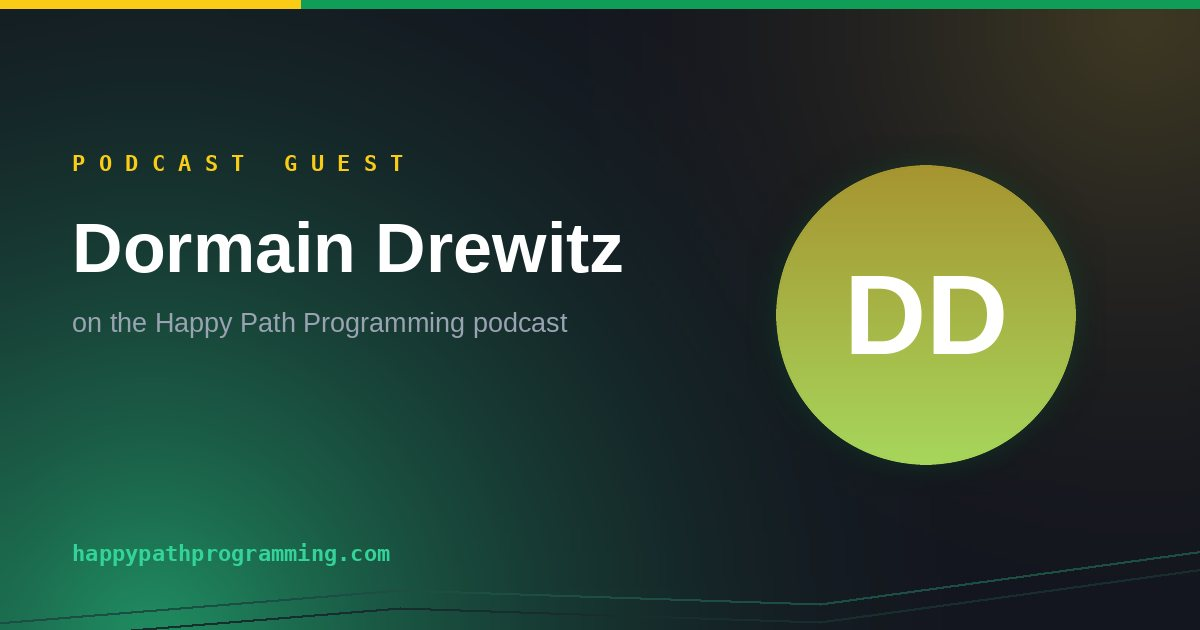
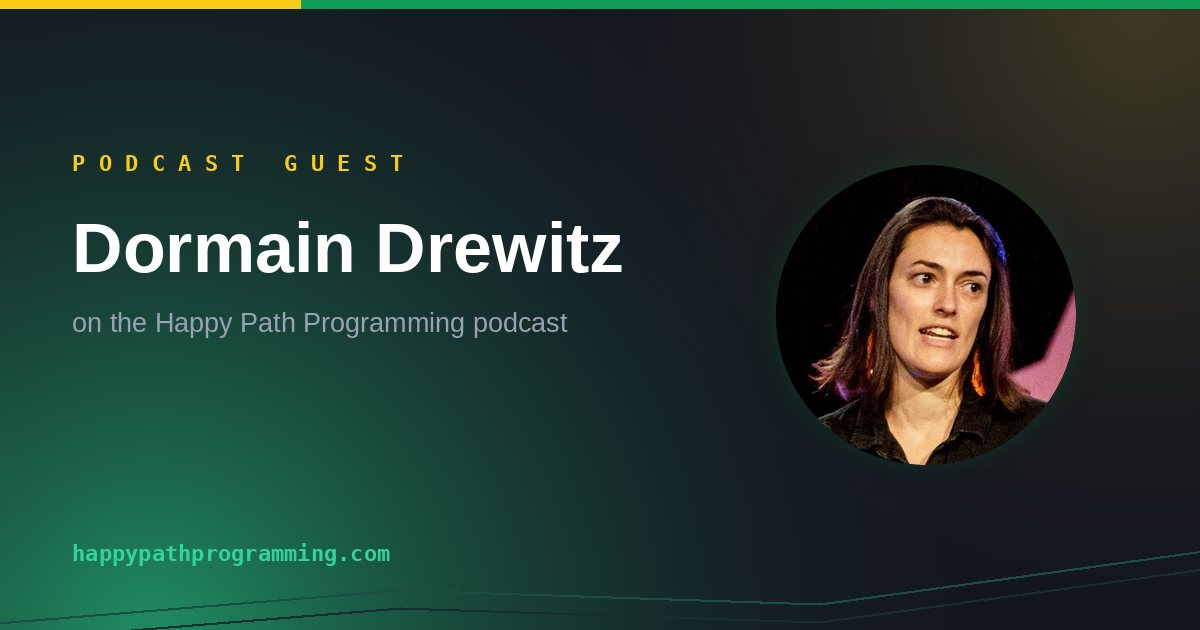
Guest photos for Barry Warsaw, Dormain Drewitz, John De Goes, Philip Hölzenspies and Renee Shah
Sources, each confirmed against the episode description:
- Barry Warsaw: LinkedIn, linked from his own site barry.warsaw.us (Python core developer)
- Dormain Drewitz: her Medium profile (talks on reliability and DevOps); matches her X avatar
- John De Goes: GitHub jdegoes (bio: Golem Cloud, ZIO)
- Philip Hölzenspies: GitHub holzensp (apple/pkl contributor)
- Renee Shah: Redpoint team page (bio: 5 years at Amplify Partners)

Redrew their guest share cards (Liberation fonts), which had the initials avatar.

Changed region(s): [[0.6475, 0.2413, 0.8942, 0.754]]

diff --git a/guests/philip-holzenspies.html b/guests/philip-holzenspies.html
@@ -34,7 +34,7 @@
 <link rel="stylesheet" href="../styles.css">
 <link rel="icon" href="../images/hpp.jpg">
 
-<script type="application/ld+json">{"@context":"https://schema.org","@graph":[{"@type":"ProfilePage","url":"https://happypathprogramming.com/guests/philip-holzenspies.html","name":"Philip Hölzenspies — Happy Path Programming","description":"Philip Hölzenspies has been a guest on Happy Path Programming once, joining Bruce and James to discuss “The Pkl Configuration Language with Philip Hölzenspies”.","mainEntity":{"@id":"https://happypathprogramming.com/guests/philip-holzenspies.html#person"}},{"@type":"Person","@id":"https://happypathprogramming.com/guests/philip-holzenspies.html#person","name":"Philip Hölzenspies","url":"https://happypathprogramming.com/guests/philip-holzenspies.html","performerIn":[{"@type":"PodcastEpisode","name":"The Pkl Configuration Language","url":"https://happypathprogramming.com/episodes/97-the-pkl-configuration-language-with-philip-holzenspies.html"}]},{"@type":"BreadcrumbList","itemListElement":[{"@type":"ListItem","position":1,"name":"Home","item":"https://happypathprogramming.com/"},{"@type":"ListItem","position":2,"name":"Guests","item":"https://happypathprogramming.com/guests/"},{"@type":"ListItem","position":3,"name":"Philip Hölzenspies","item":"https://happypathprogramming.com/guests/philip-holzenspies.html"}]}]}</script>
+<script type="application/ld+json">{"@context":"https://schema.org","@graph":[{"@type":"ProfilePage","url":"https://happypathprogramming.com/guests/philip-holzenspies.html","name":"Philip Hölzenspies — Happy Path Programming","description":"Philip Hölzenspies has been a guest on Happy Path Programming once, joining Bruce and James to discuss “The Pkl Configuration Language with Philip Hölzenspies”.","mainEntity":{"@id":"https://happypathprogramming.com/guests/philip-holzenspies.html#person"}},{"@type":"Person","@id":"https://happypathprogramming.com/guests/philip-holzenspies.html#person","name":"Philip Hölzenspies","url":"https://happypathprogramming.com/guests/philip-holzenspies.html","image":"https://happypathprogramming.com/images/guests/philip-holzenspies.jpg","performerIn":[{"@type":"PodcastEpisode","name":"The Pkl Configuration Language","url":"https://happypathprogramming.com/episodes/97-the-pkl-configuration-language-with-philip-holzenspies.html"}]},{"@type":"BreadcrumbList","itemListElement":[{"@type":"ListItem","position":1,"name":"Home","item":"https://happypathprogramming.com/"},{"@type":"ListItem","position":2,"name":"Guests","item":"https://happypathprogramming.com/guests/"},{"@type":"ListItem","position":3,"name":"Philip Hölzenspies","item":"https://happypathprogramming.com/guests/philip-holzenspies.html"}]}]}</script>
 </head>
 <body>
 <header class="site-header">
@@ -49,7 +49,7 @@
   <div class="wrap guest-hero-inner">
     <a class="back" href="../guests/index.html">← All guests</a>
     <div class="guest-hero-row">
-      <span class="avatar avatar--lg" style="background:linear-gradient(135deg,hsl(183 62% 44%),hsl(225 72% 56%))">PH</span>
+      <img class="avatar avatar--lg avatar-img" src="../images/guests/philip-holzenspies.jpg" alt="Philip Hölzenspies" loading="lazy" width="84" height="84">
       <div>
         <h1>Philip Hölzenspies</h1>
         <p class="guest-bio">Philip Hölzenspies has been a guest on Happy Path Programming once, joining Bruce and James to discuss “The Pkl Configuration Language with Philip Hölzenspies”.</p>

diff --git a/guests/john-de-goes.html b/guests/john-de-goes.html
@@ -34,7 +34,7 @@
 <link rel="stylesheet" href="../styles.css">
 <link rel="icon" href="../images/hpp.jpg">
 
-<script type="application/ld+json">{"@context":"https://schema.org","@graph":[{"@type":"ProfilePage","url":"https://happypathprogramming.com/guests/john-de-goes.html","name":"John De Goes — Happy Path Programming","description":"John De Goes has been a guest on Happy Path Programming once, joining Bruce and James to discuss “Scala, Rust, and Durable Computing with John De Goes”.","mainEntity":{"@id":"https://happypathprogramming.com/guests/john-de-goes.html#person"}},{"@type":"Person","@id":"https://happypathprogramming.com/guests/john-de-goes.html#person","name":"John De Goes","url":"https://happypathprogramming.com/guests/john-de-goes.html","performerIn":[{"@type":"PodcastEpisode","name":"Scala, Rust, and Durable Computing","url":"https://happypathprogramming.com/episodes/85-scala-rust-and-durable-computing-with-john-de-goes.html"}]},{"@type":"BreadcrumbList","itemListElement":[{"@type":"ListItem","position":1,"name":"Home","item":"https://happypathprogramming.com/"},{"@type":"ListItem","position":2,"name":"Guests","item":"https://happypathprogramming.com/guests/"},{"@type":"ListItem","position":3,"name":"John De Goes","item":"https://happypathprogramming.com/guests/john-de-goes.html"}]}]}</script>
+<script type="application/ld+json">{"@context":"https://schema.org","@graph":[{"@type":"ProfilePage","url":"https://happypathprogramming.com/guests/john-de-goes.html","name":"John De Goes — Happy Path Programming","description":"John De Goes has been a guest on Happy Path Programming once, joining Bruce and James to discuss “Scala, Rust, and Durable Computing with John De Goes”.","mainEntity":{"@id":"https://happypathprogramming.com/guests/john-de-goes.html#person"}},{"@type":"Person","@id":"https://happypathprogramming.com/guests/john-de-goes.html#person","name":"John De Goes","url":"https://happypathprogramming.com/guests/john-de-goes.html","image":"https://happypathprogramming.com/images/guests/john-de-goes.jpg","performerIn":[{"@type":"PodcastEpisode","name":"Scala, Rust, and Durable Computing","url":"https://happypathprogramming.com/episodes/85-scala-rust-and-durable-computing-with-john-de-goes.html"}]},{"@type":"BreadcrumbList","itemListElement":[{"@type":"ListItem","position":1,"name":"Home","item":"https://happypathprogramming.com/"},{"@type":"ListItem","position":2,"name":"Guests","item":"https://happypathprogramming.com/guests/"},{"@type":"ListItem","position":3,"name":"John De Goes","item":"https://happypathprogramming.com/guests/john-de-goes.html"}]}]}</script>
 </head>
 <body>
 <header class="site-header">
@@ -49,7 +49,7 @@
   <div class="wrap guest-hero-inner">
     <a class="back" href="../guests/index.html">← All guests</a>
     <div class="guest-hero-row">
-      <span class="avatar avatar--lg" style="background:linear-gradient(135deg,hsl(40 62% 44%),hsl(82 72% 56%))">JG</span>
+      <img class="avatar avatar--lg avatar-img" src="../images/guests/john-de-goes.jpg" alt="John De Goes" loading="lazy" width="84" height="84">
       <div>
         <h1>John De Goes</h1>
         <p class="guest-bio">John De Goes has been a guest on Happy Path Programming once, joining Bruce and James to discuss “Scala, Rust, and Durable Computing with John De Goes”.</p>

diff --git a/guests/dormain-drewitz.html b/guests/dormain-drewitz.html
@@ -34,7 +34,7 @@
 <link rel="stylesheet" href="../styles.css">
 <link rel="icon" href="../images/hpp.jpg">
 
-<script type="application/ld+json">{"@context":"https://schema.org","@graph":[{"@type":"ProfilePage","url":"https://happypathprogramming.com/guests/dormain-drewitz.html","name":"Dormain Drewitz — Happy Path Programming","description":"Dormain Drewitz has been a guest on Happy Path Programming once, joining Bruce and James to discuss “Inevitable Failure with Dormain Drewitz”.","mainEntity":{"@id":"https://happypathprogramming.com/guests/dormain-drewitz.html#person"}},{"@type":"Person","@id":"https://happypathprogramming.com/guests/dormain-drewitz.html#person","name":"Dormain Drewitz","url":"https://happypathprogramming.com/guests/dormain-drewitz.html","performerIn":[{"@type":"PodcastEpisode","name":"Inevitable Failure","url":"https://happypathprogramming.com/episodes/84-inevitable-failure-with-dormain-drewitz.html"}]},{"@type":"BreadcrumbList","itemListElement":[{"@type":"ListItem","position":1,"name":"Home","item":"https://happypathprogramming.com/"},{"@type":"ListItem","position":2,"name":"Guests","item":"https://happypathprogramming.com/guests/"},{"@type":"ListItem","position":3,"name":"Dormain Drewitz","item":"https://happypathprogramming.com/guests/dormain-drewitz.html"}]}]}</script>
+<script type="application/ld+json">{"@context":"https://schema.org","@graph":[{"@type":"ProfilePage","url":"https://happypathprogramming.com/guests/dormain-drewitz.html","name":"Dormain Drewitz — Happy Path Programming","description":"Dormain Drewitz has been a guest on Happy Path Programming once, joining Bruce and James to discuss “Inevitable Failure with Dormain Drewitz”.","mainEntity":{"@id":"https://happypathprogramming.com/guests/dormain-drewitz.html#person"}},{"@type":"Person","@id":"https://happypathprogramming.com/guests/dormain-drewitz.html#person","name":"Dormain Drewitz","url":"https://happypathprogramming.com/guests/dormain-drewitz.html","image":"https://happypathprogramming.com/images/guests/dormain-drewitz.jpg","performerIn":[{"@type":"PodcastEpisode","name":"Inevitable Failure","url":"https://happypathprogramming.com/episodes/84-inevitable-failure-with-dormain-drewitz.html"}]},{"@type":"BreadcrumbList","itemListElement":[{"@type":"ListItem","position":1,"name":"Home","item":"https://happypathprogramming.com/"},{"@type":"ListItem","position":2,"name":"Guests","item":"https://happypathprogramming.com/guests/"},{"@type":"ListItem","position":3,"name":"Dormain Drewitz","item":"https://happypathprogramming.com/guests/dormain-drewitz.html"}]}]}</script>
 </head>
 <body>
 <header class="site-header">
@@ -49,7 +49,7 @@
   <div class="wrap guest-hero-inner">
     <a class="back" href="../guests/index.html">← All guests</a>
     <div class="guest-hero-row">
-      <span class="avatar avatar--lg" style="background:linear-gradient(135deg,hsl(111 62% 44%),hsl(153 72% 56%))">DD</span>
+      <img class="avatar avatar--lg avatar-img" src="../images/guests/dormain-drewitz.jpg" alt="Dormain Drewitz" loading="lazy" width="84" height="84">
       <div>
         <h1>Dormain Drewitz</h1>
         <p class="guest-bio">Dormain Drewitz has been a guest on Happy Path Programming once, joining Bruce and James to discuss “Inevitable Failure with Dormain Drewitz”.</p>

diff --git a/guests/renee-shah.html b/guests/renee-shah.html
@@ -34,7 +34,7 @@
 <link rel="stylesheet" href="../styles.css">
 <link rel="icon" href="../images/hpp.jpg">
 
-<script type="application/ld+json">{"@context":"https://schema.org","@graph":[{"@type":"ProfilePage","url":"https://happypathprogramming.com/guests/renee-shah.html","name":"Renee Shah — Happy Path Programming","description":"Renee Shah has been a guest on Happy Path Programming once, joining Bruce and James to discuss “Investing in Developer Tools with Renee Shah”.","mainEntity":{"@id":"https://happypathprogramming.com/guests/renee-shah.html#person"}},{"@type":"Person","@id":"https://happypathprogramming.com/guests/renee-shah.html#person","name":"Renee Shah","url":"https://happypathprogramming.com/guests/renee-shah.html","performerIn":[{"@type":"PodcastEpisode","name":"Investing in Developer Tools","url":"https://happypathprogramming.com/episodes/80-investing-in-developer-tools-with-renee-shah.html"}]},{"@type":"BreadcrumbList","itemListElement":[{"@type":"ListItem","position":1,"name":"Home","item":"https://happypathprogramming.com/"},{"@type":"ListItem","position":2,"name":"Guests","item":"https://happypathprogramming.com/guests/"},{"@type":"ListItem","position":3,"name":"Renee Shah","item":"https://happypathprogramming.com/guests/renee-shah.html"}]}]}</script>
+<script type="application/ld+json">{"@context":"https://schema.org","@graph":[{"@type":"ProfilePage","url":"https://happypathprogramming.com/guests/renee-shah.html","name":"Renee Shah — Happy Path Programming","description":"Renee Shah has been a guest on Happy Path Programming once, joining Bruce and James to discuss “Investing in Developer Tools with Renee Shah”.","mainEntity":{"@id":"https://happypathprogramming.com/guests/renee-shah.html#person"}},{"@type":"Person","@id":"https://happypathprogramming.com/guests/renee-shah.html#person","name":"Renee Shah","url":"https://happypathprogramming.com/guests/renee-shah.html","image":"https://happypathprogramming.com/images/guests/renee-shah.jpg","performerIn":[{"@type":"PodcastEpisode","name":"Investing in Developer Tools","url":"https://happypathprogramming.com/episodes/80-investing-in-developer-tools-with-renee-shah.html"}]},{"@type":"BreadcrumbList","itemListElement":[{"@type":"ListItem","position":1,"name":"Home","item":"https://happypathprogramming.com/"},{"@type":"ListItem","position":2,"name":"Guests","item":"https://happypathprogramming.com/guests/"},{"@type":"ListItem","position":3,"name":"Renee Shah","item":"https://happypathprogramming.com/guests/renee-shah.html"}]}]}</script>
 </head>
 <body>
 <header class="site-header">
@@ -49,7 +49,7 @@
   <div class="wrap guest-hero-inner">
     <a class="back" href="../guests/index.html">← All guests</a>
     <div class="guest-hero-row">
-      <span class="avatar avatar--lg" style="background:linear-gradient(135deg,hsl(345 62% 44%),hsl(27 72% 56%))">RS</span>
+      <img class="avatar avatar--lg avatar-img" src="../images/guests/renee-shah.jpg" alt="Renee Shah" loading="lazy" width="84" height="84">
       <div>
         <h1>Renee Shah</h1>
         <p class="guest-bio">Renee Shah has been a guest on Happy Path Programming once, joining Bruce and James to discuss “Investing in Developer Tools with Renee Shah”.</p>

diff --git a/guests/barry-warsaw.html b/guests/barry-warsaw.html
@@ -34,7 +34,7 @@
 <link rel="stylesheet" href="../styles.css">
 <link rel="icon" href="../images/hpp.jpg">
 
-<script type="application/ld+json">{"@context":"https://schema.org","@graph":[{"@type":"ProfilePage","url":"https://happypathprogramming.com/guests/barry-warsaw.html","name":"Barry Warsaw — Happy Path Programming","description":"Barry Warsaw has been a guest on Happy Path Programming once, joining Bruce and James on episode #122.","mainEntity":{"@id":"https://happypathprogramming.com/guests/barry-warsaw.html#person"}},{"@type":"Person","@id":"https://happypathprogramming.com/guests/barry-warsaw.html#person","name":"Barry Warsaw","url":"https://happypathprogramming.com/guests/barry-warsaw.html","performerIn":[{"@type":"PodcastEpisode","name":"Barry Warsaw","url":"https://happypathprogramming.com/episodes/122-barry-warsaw.html"}]},{"@type":"BreadcrumbList","itemListElement":[{"@type":"ListItem","position":1,"name":"Home","item":"https://happypathprogramming.com/"},{"@type":"ListItem","position":2,"name":"Guests","item":"https://happypathprogramming.com/guests/"},{"@type":"ListItem","position":3,"name":"Barry Warsaw","item":"https://happypathprogramming.com/guests/barry-warsaw.html"}]}]}</script>
+<script type="application/ld+json">{"@context":"https://schema.org","@graph":[{"@type":"ProfilePage","url":"https://happypathprogramming.com/guests/barry-warsaw.html","name":"Barry Warsaw — Happy Path Programming","description":"Barry Warsaw has been a guest on Happy Path Programming once, joining Bruce and James on episode #122.","mainEntity":{"@id":"https://happypathprogramming.com/guests/barry-warsaw.html#person"}},{"@type":"Person","@id":"https://happypathprogramming.com/guests/barry-warsaw.html#person","name":"Barry Warsaw","url":"https://happypathprogramming.com/guests/barry-warsaw.html","image":"https://happypathprogramming.com/images/guests/barry-warsaw.jpg","performerIn":[{"@type":"PodcastEpisode","name":"Barry Warsaw","url":"https://happypathprogramming.com/episodes/122-barry-warsaw.html"}]},{"@type":"BreadcrumbList","itemListElement":[{"@type":"ListItem","position":1,"name":"Home","item":"https://happypathprogramming.com/"},{"@type":"ListItem","position":2,"name":"Guests","item":"https://happypathprogramming.com/guests/"},{"@type":"ListItem","position":3,"name":"Barry Warsaw","item":"https://happypathprogramming.com/guests/barry-warsaw.html"}]}]}</script>
 </head>
 <body>
 <header class="site-header">
@@ -49,7 +49,7 @@
   <div class="wrap guest-hero-inner">
     <a class="back" href="../guests/index.html">← All guests</a>
     <div class="guest-hero-row">
-      <span class="avatar avatar--lg" style="background:linear-gradient(135deg,hsl(93 62% 44%),hsl(135 72% 56%))">BW</span>
+      <img class="avatar avatar--lg avatar-img" src="../images/guests/barry-warsaw.jpg" alt="Barry Warsaw" loading="lazy" width="84" height="84">
       <div>
         <h1>Barry Warsaw</h1>
         <p class="guest-bio">Barry Warsaw has been a guest on Happy Path Programming once, joining Bruce and James on episode #122.</p>

diff --git a/guests/index.html b/guests/index.html
@@ -89,7 +89,7 @@
       <span class="guest-count">1 episode</span>
     </a>
 <a class="guest-card" href="../guests/barry-warsaw.html">
-      <span class="avatar " style="background:linear-gradient(135deg,hsl(93 62% 44%),hsl(135 72% 56%))">BW</span>
+      <img class="avatar  avatar-img" src="../images/guests/barry-warsaw.jpg" alt="Barry Warsaw" loading="lazy" width="84" height="84">
       <span class="guest-name">Barry Warsaw</span>
       <span class="guest-count">1 episode</span>
     </a>
@@ -147,7 +147,7 @@
       <span class="guest-count">1 episode</span>
     </a>
 <a class="guest-card" href="../guests/dormain-drewitz.html">
-      <span class="avatar " style="background:linear-gradient(135deg,hsl(111 62% 44%),hsl(153 72% 56%))">DD</span>
+      <img class="avatar  avatar-img" src="../images/guests/dormain-drewitz.jpg" alt="Dormain Drewitz" loading="lazy" width="84" height="84">
       <span class="guest-name">Dormain Drewitz</span>
       <span class="guest-count">1 episode</span>
     </a></div></div><div class="letter-group"><h2 class="letter">F</h2><div class="guest-grid"><a class="guest-card" href="../guests/flavio-brasil.html">
@@ -193,7 +193,7 @@
       <span class="guest-count">1 episode</span>
     </a>
 <a class="guest-card" href="../guests/john-de-goes.html">
-      <span class="avatar " style="background:linear-gradient(135deg,hsl(40 62% 44%),hsl(82 72% 56%))">JG</span>
+      <img class="avatar  avatar-img" src="../images/guests/john-de-goes.jpg" alt="John De Goes" loading="lazy" width="84" height="84">
       <span class="guest-name">John De Goes</span>
       <span class="guest-count">1 episode</span>
     </a>
@@ -287,11 +287,11 @@
       <span class="guest-count">2 episodes</span>
     </a>
 <a class="guest-card" href="../guests/philip-holzenspies.html">
-      <span class="avatar " style="background:linear-gradient(135deg,hsl(183 62% 44%),hsl(225 72% 56%))">PH</span>
+      <img class="avatar  avatar-img" src="../images/guests/philip-holzenspies.jpg" alt="Philip Hölzenspies" loading="lazy" width="84" height="84">
       <span class="guest-name">Philip Hölzenspies</span>
       <span class="guest-count">1 episode</span>
     </a></div></div><div class="letter-group"><h2 class="letter">R</h2><div class="guest-grid"><a class="guest-card" href="../guests/renee-shah.html">
-      <span class="avatar " style="background:linear-gradient(135deg,hsl(345 62% 44%),hsl(27 72% 56%))">RS</span>
+      <img class="avatar  avatar-img" src="../images/guests/renee-shah.jpg" alt="Renee Shah" loading="lazy" width="84" height="84">
       <span class="guest-name">Renee Shah</span>
       <span class="guest-count">1 episode</span>
     </a>
